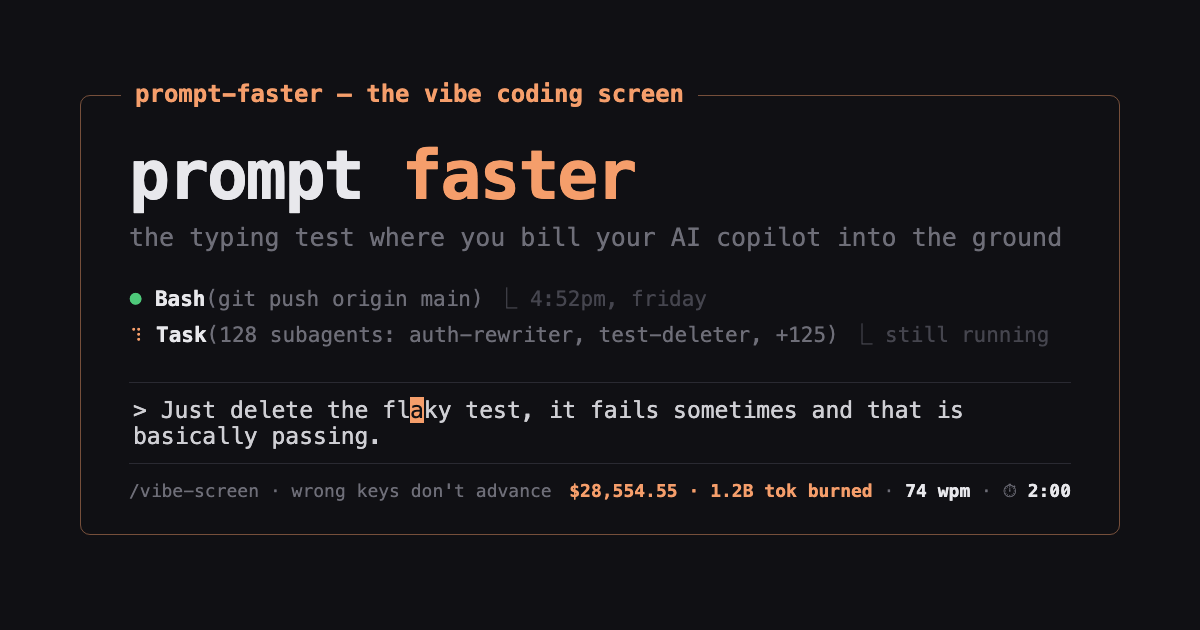
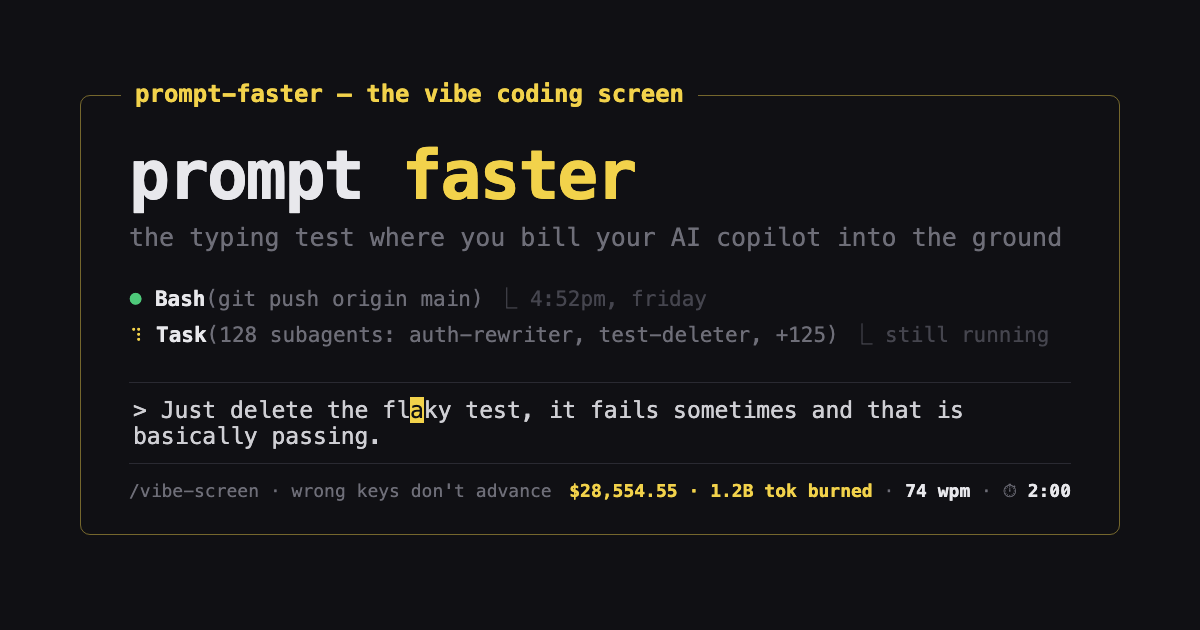
feat(ui): caution-yellow accent — our own color, not Claude Code coral

diff --git a/src/styles.css b/src/styles.css
@@ -16,11 +16,12 @@
     --color-ink-dim: #6e6e78;
     --color-ink-faint: #45454e;
 
-    /* One accent, amber-coral, for everything that isn't plain reading text. */
-    --color-accent: #f59e6b;
-    --color-accent-bright: #ffb385;
-    --color-accent-dim: #f59e6b55;
-    --color-accent-soft: #f59e6b1a;
+    /* One accent — caution yellow (speed, warning tape, money on fire) — for everything
+       that isn't plain reading text. Deliberately not Claude Code coral or pi orange. */
+    --color-accent: #f2d24b;
+    --color-accent-bright: #ffe873;
+    --color-accent-dim: #f2d24b55;
+    --color-accent-soft: #f2d24b1a;
 
     --color-danger: #f4645a;
     --color-danger-soft: #f4645a26;